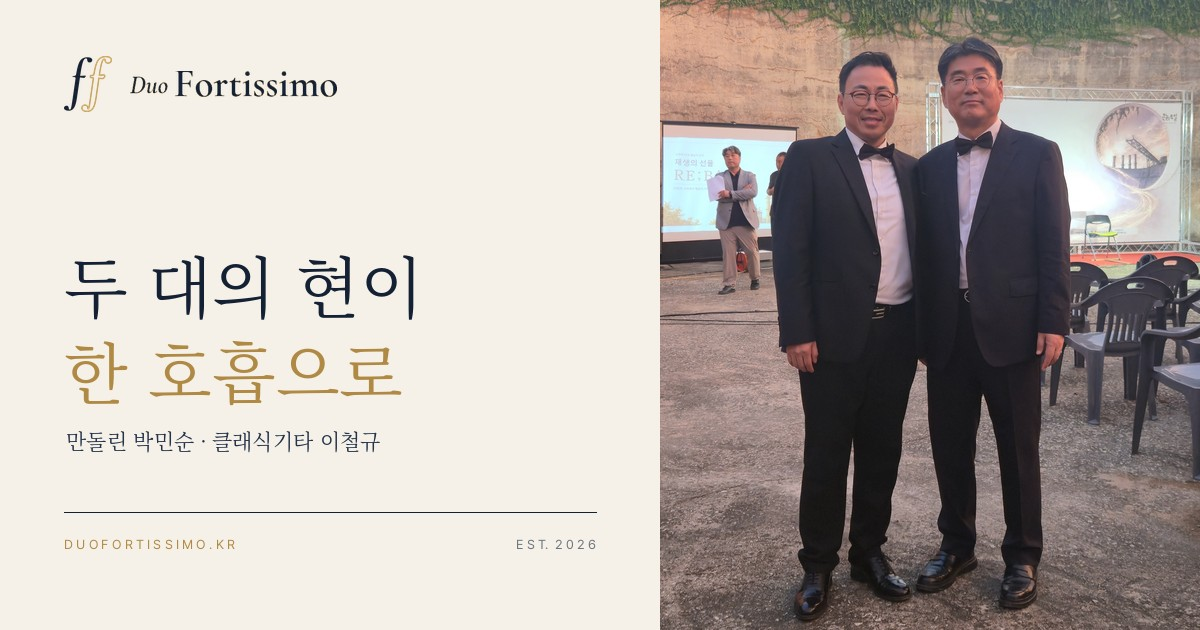
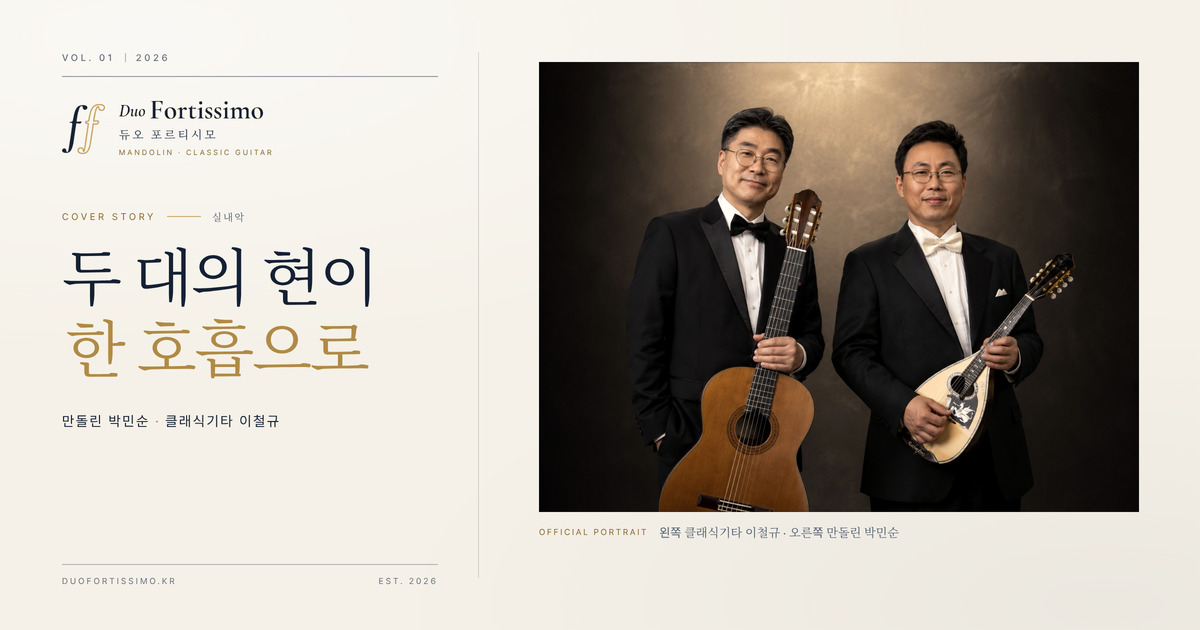
공유 썸네일을 표지 타이틀 지면으로 다시 짓고 og-image-v2.jpg로 교체
- 1200×630을 에디토리얼 페이퍼 표지 문법으로 재구성(로고·듀오 포르티시모·두 대의 현이 한 호흡으로·두 연주자·도메인)
- 오른쪽에 공식 스튜디오 투샷을 4:3 그대로(잘림 없음) 배치, 왼쪽 지면 40%
- 캐시 갱신을 위해 og:image·twitter:image를 /og-image-v2.jpg로 옮기고, 기존 assets/og-image.jpg도 같은 그림으로 덮어씀
- twitter:image:alt·og:image:alt 갱신

diff --git a/app/index.html b/app/index.html
@@ -15,16 +15,17 @@
     <meta property="og:title" content="Duo Fortissimo | 만돌린과 클래식기타 듀엣" />
     <meta property="og:description" content="만돌린 박민순, 클래식기타 이철규. 두 대의 현으로 만드는 실내악." />
     <meta property="og:url" content="https://duofortissimo.kr/" />
-    <meta property="og:image" content="https://duofortissimo.kr/assets/og-image.jpg" />
+    <meta property="og:image" content="https://duofortissimo.kr/og-image-v2.jpg" />
     <meta property="og:image:type" content="image/jpeg" />
     <meta property="og:image:width" content="1200" />
     <meta property="og:image:height" content="630" />
-    <meta property="og:image:alt" content="듀오 포르티시모 로고와 문경 공연 사진" />
+    <meta property="og:image:alt" content="듀오 포르티시모 로고와 만돌린 박민순·클래식기타 이철규의 공식 포트레이트" />
     <meta property="og:locale" content="ko_KR" />
     <meta name="twitter:card" content="summary_large_image" />
     <meta name="twitter:title" content="Duo Fortissimo | 만돌린과 클래식기타 듀엣" />
     <meta name="twitter:description" content="만돌린 박민순, 클래식기타 이철규. 두 대의 현으로 만드는 실내악." />
-    <meta name="twitter:image" content="https://duofortissimo.kr/assets/og-image.jpg" />
+    <meta name="twitter:image" content="https://duofortissimo.kr/og-image-v2.jpg" />
+    <meta name="twitter:image:alt" content="듀오 포르티시모 로고와 만돌린 박민순·클래식기타 이철규의 공식 포트레이트" />
     <link rel="icon" type="image/png" sizes="32x32" href="/favicon-32.png" />
     <link rel="icon" type="image/png" sizes="64x64" href="/favicon-64.png" />
     <link rel="apple-touch-icon" href="/apple-touch-icon.png" />

diff --git a/docs/index.html b/docs/index.html
@@ -15,16 +15,17 @@
     <meta property="og:title" content="Duo Fortissimo | 만돌린과 클래식기타 듀엣" />
     <meta property="og:description" content="만돌린 박민순, 클래식기타 이철규. 두 대의 현으로 만드는 실내악." />
     <meta property="og:url" content="https://duofortissimo.kr/" />
-    <meta property="og:image" content="https://duofortissimo.kr/assets/og-image.jpg" />
+    <meta property="og:image" content="https://duofortissimo.kr/og-image-v2.jpg" />
     <meta property="og:image:type" content="image/jpeg" />
     <meta property="og:image:width" content="1200" />
     <meta property="og:image:height" content="630" />
-    <meta property="og:image:alt" content="듀오 포르티시모 로고와 문경 공연 사진" />
+    <meta property="og:image:alt" content="듀오 포르티시모 로고와 만돌린 박민순·클래식기타 이철규의 공식 포트레이트" />
     <meta property="og:locale" content="ko_KR" />
     <meta name="twitter:card" content="summary_large_image" />
     <meta name="twitter:title" content="Duo Fortissimo | 만돌린과 클래식기타 듀엣" />
     <meta name="twitter:description" content="만돌린 박민순, 클래식기타 이철규. 두 대의 현으로 만드는 실내악." />
-    <meta name="twitter:image" content="https://duofortissimo.kr/assets/og-image.jpg" />
+    <meta name="twitter:image" content="https://duofortissimo.kr/og-image-v2.jpg" />
+    <meta name="twitter:image:alt" content="듀오 포르티시모 로고와 만돌린 박민순·클래식기타 이철규의 공식 포트레이트" />
     <link rel="icon" type="image/png" sizes="32x32" href="/favicon-32.png" />
     <link rel="icon" type="image/png" sizes="64x64" href="/favicon-64.png" />
     <link rel="apple-touch-icon" href="/apple-touch-icon.png" />

diff --git a/index.html b/index.html
@@ -15,16 +15,17 @@
     <meta property="og:title" content="Duo Fortissimo | 만돌린과 클래식기타 듀엣" />
     <meta property="og:description" content="만돌린 박민순, 클래식기타 이철규. 두 대의 현으로 만드는 실내악." />
     <meta property="og:url" content="https://duofortissimo.kr/" />
-    <meta property="og:image" content="https://duofortissimo.kr/assets/og-image.jpg" />
+    <meta property="og:image" content="https://duofortissimo.kr/og-image-v2.jpg" />
     <meta property="og:image:type" content="image/jpeg" />
     <meta property="og:image:width" content="1200" />
     <meta property="og:image:height" content="630" />
-    <meta property="og:image:alt" content="듀오 포르티시모 로고와 문경 공연 사진" />
+    <meta property="og:image:alt" content="듀오 포르티시모 로고와 만돌린 박민순·클래식기타 이철규의 공식 포트레이트" />
     <meta property="og:locale" content="ko_KR" />
     <meta name="twitter:card" content="summary_large_image" />
     <meta name="twitter:title" content="Duo Fortissimo | 만돌린과 클래식기타 듀엣" />
     <meta name="twitter:description" content="만돌린 박민순, 클래식기타 이철규. 두 대의 현으로 만드는 실내악." />
-    <meta name="twitter:image" content="https://duofortissimo.kr/assets/og-image.jpg" />
+    <meta name="twitter:image" content="https://duofortissimo.kr/og-image-v2.jpg" />
+    <meta name="twitter:image:alt" content="듀오 포르티시모 로고와 만돌린 박민순·클래식기타 이철규의 공식 포트레이트" />
     <link rel="icon" type="image/png" sizes="32x32" href="/favicon-32.png" />
     <link rel="icon" type="image/png" sizes="64x64" href="/favicon-64.png" />
     <link rel="apple-touch-icon" href="/apple-touch-icon.png" />

diff --git a/README.md b/README.md
@@ -76,7 +76,7 @@ app/
       logo-mark.png       ff 심볼 (투명 PNG, 로고 원본에서 추출)
       logo-wordmark.png   Duo Fortissimo 워드마크 (투명 PNG)
       logo-lockup.png     심볼 + 워드마크 + 한글 + MANDOLIN·GUITAR
-      og-image.jpg        공유 미리보기 1200×630
+      og-image-v2.jpg     공유 미리보기 1200×630 (og:image·twitter:image, 저장소 루트 /og-image-v2.jpg)
       photos/             2026년 9월 2일 문경 공연 사진(웹용 WebP)
       yt-*.jpg            유튜브 영상 썸네일
     robots.txt  sitemap.xml  CNAME  favicon-*.png  apple-touch-icon.png
@@ -119,7 +119,7 @@ scripts/
 | `stage-*.webp` | 무대 사진 네 장 |
 
 원본은 구글 드라이브 `듀오 포르티시모` 폴더에 있습니다. 사진을 바꿀 때는 같은 비율로 잘라
-WebP로 저장하고 파일 이름을 유지하면 됩니다. 표지와 공유 미리보기(`og-image.jpg`)는
+WebP로 저장하고 파일 이름을 유지하면 됩니다. 표지와 공유 미리보기(`og-image-v2.jpg`)는
 두 사람이 함께 나온 사진을 씁니다.
 
 ## 로컬에서 보기
